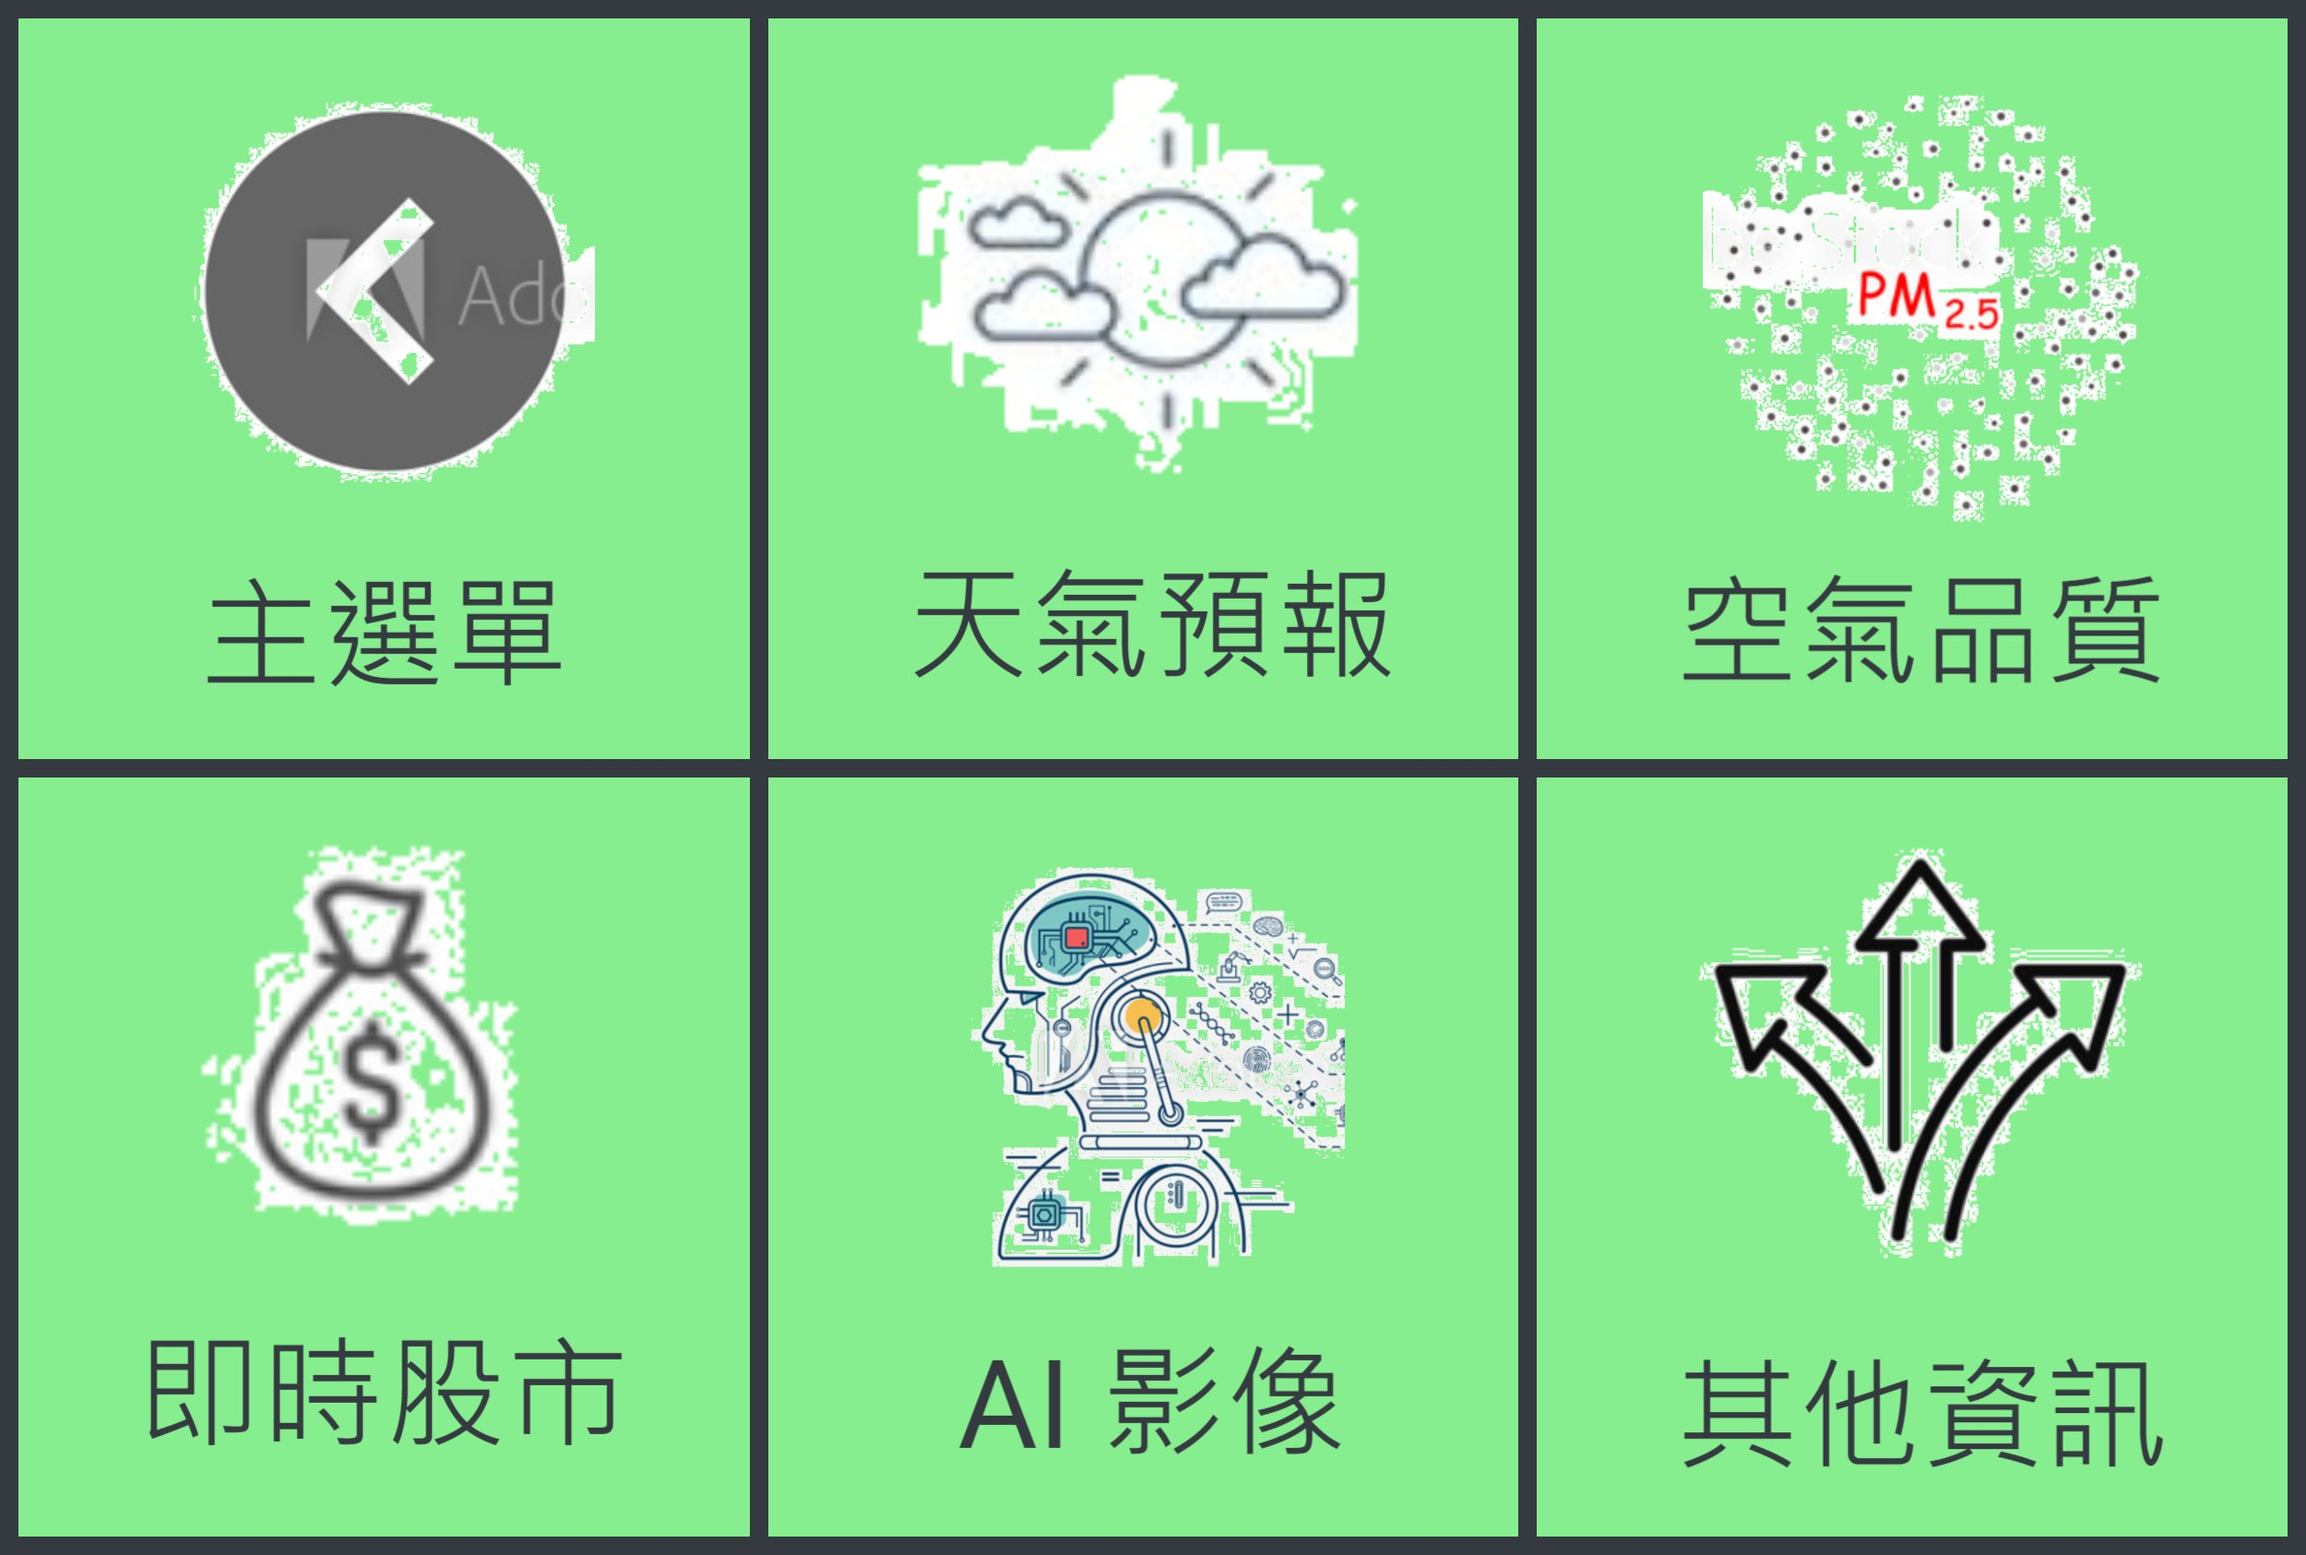
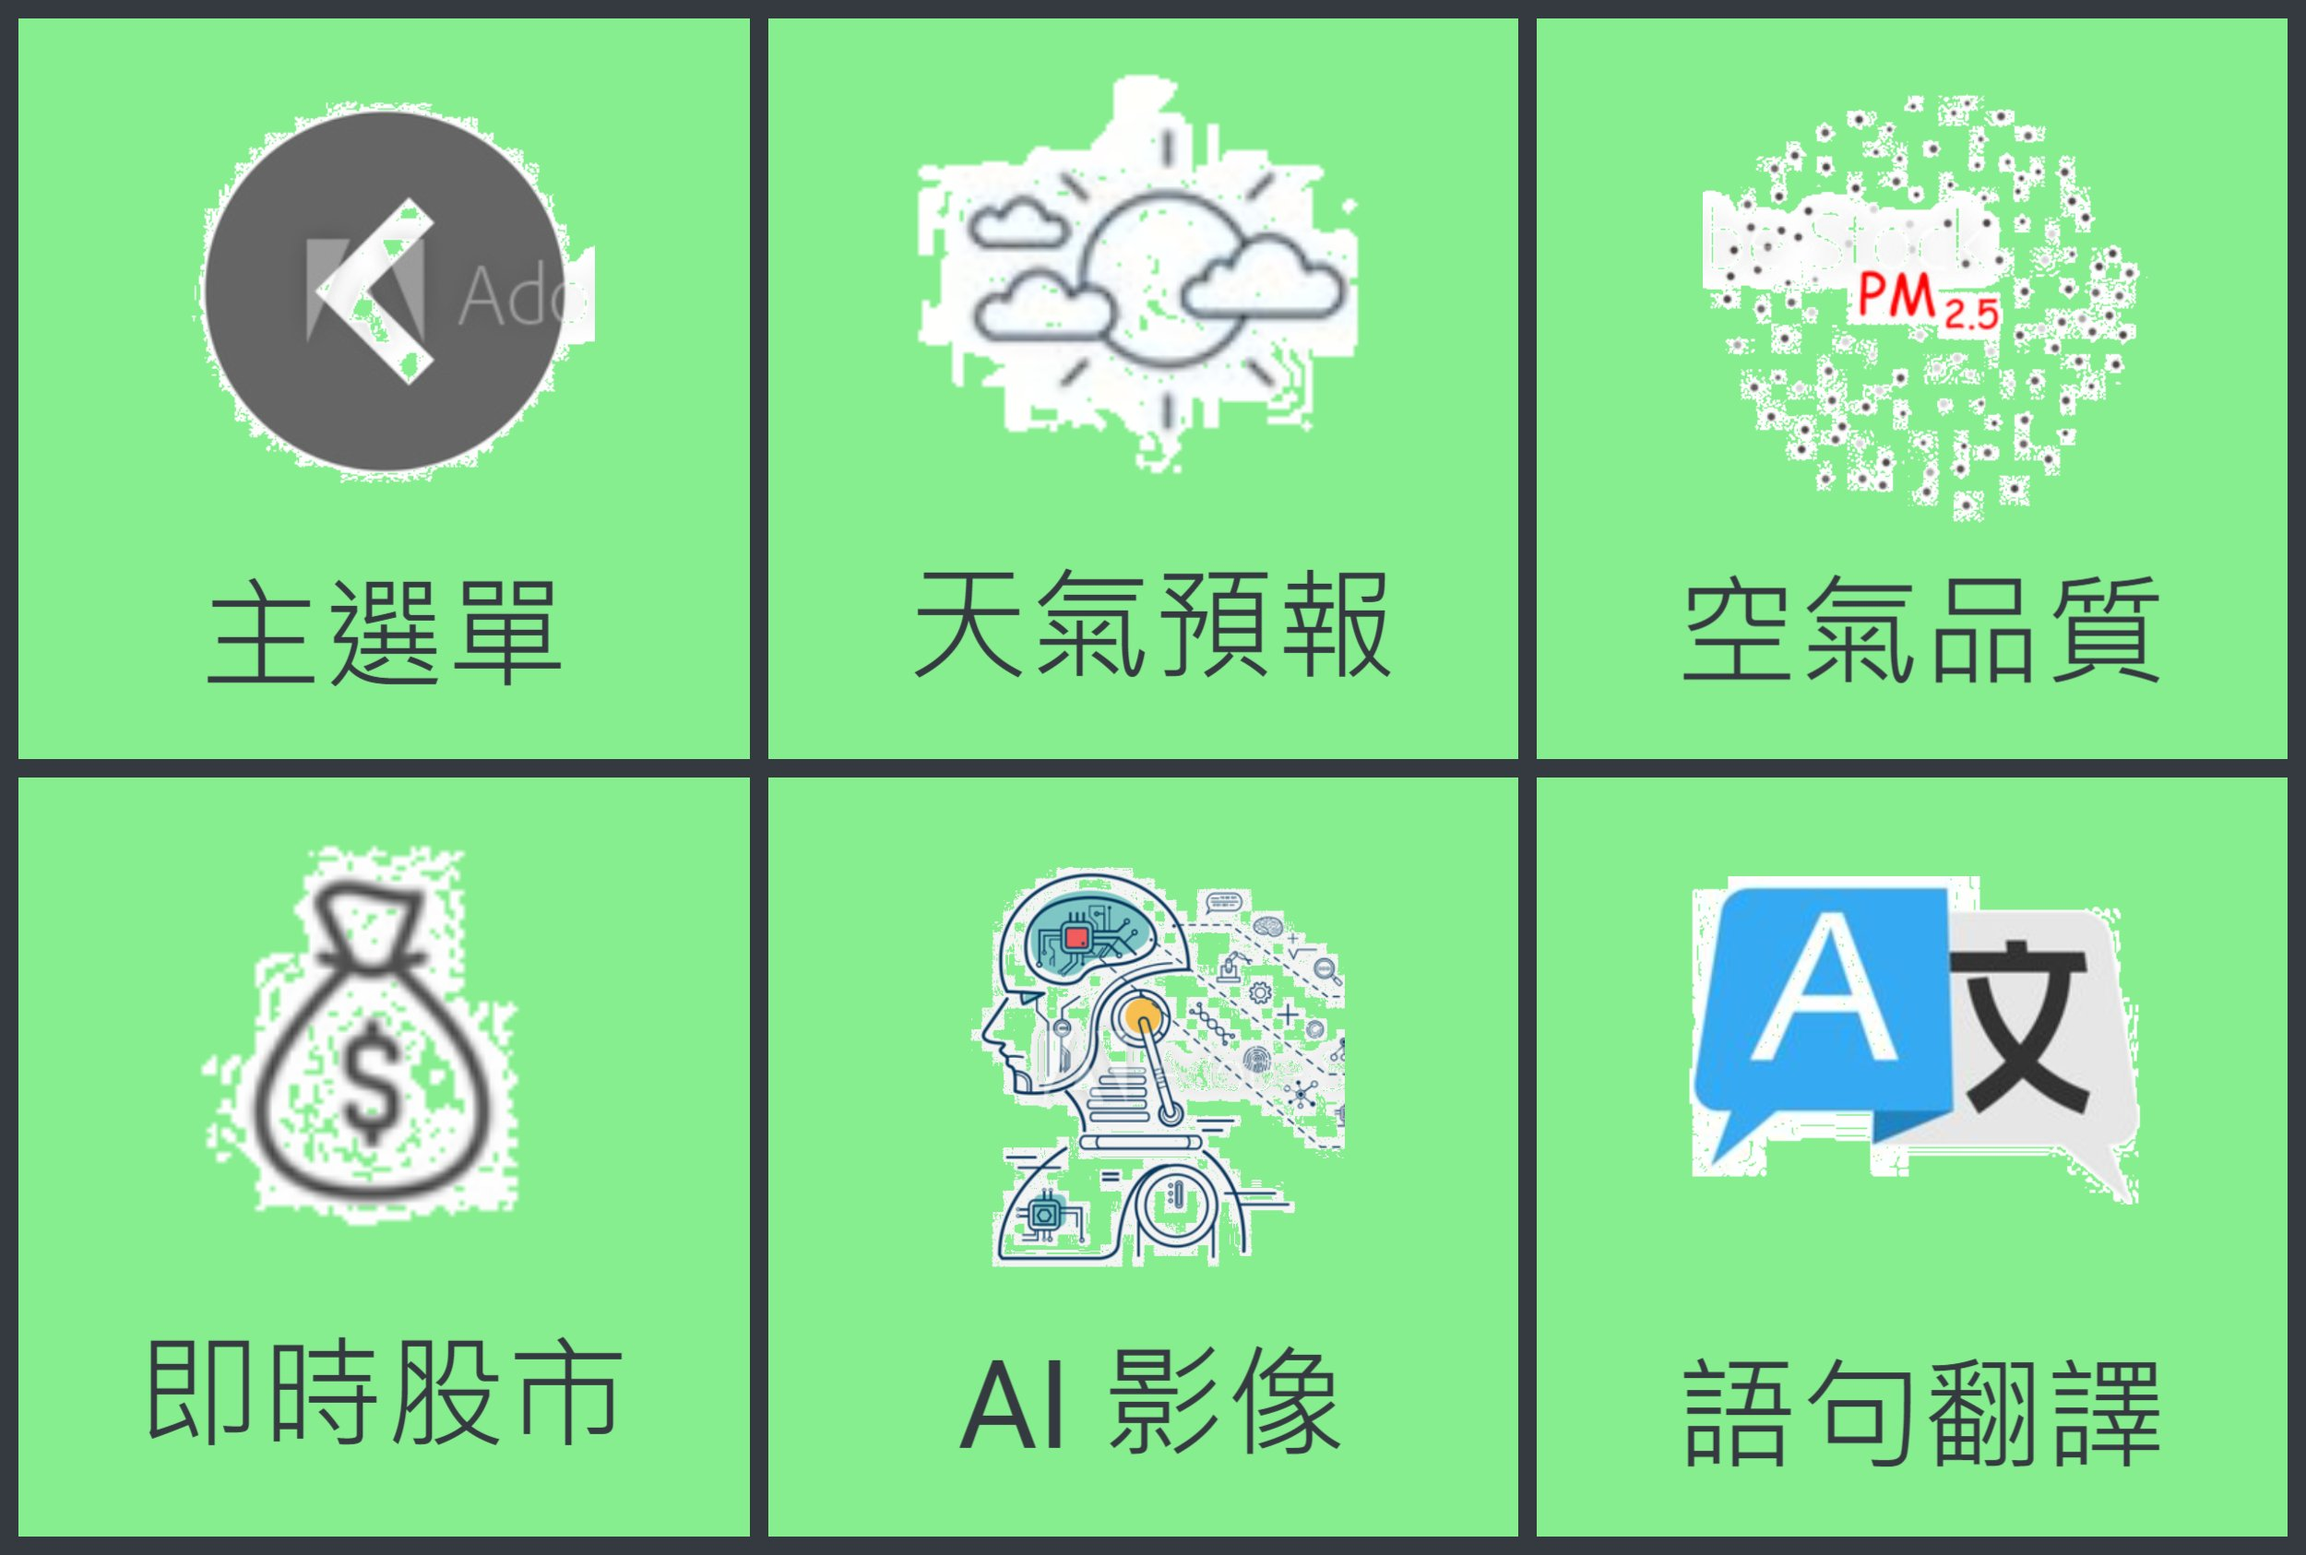
init.

Changed region(s): [[0.7176, 0.5243, 0.936, 0.8019], [0.7176, 0.8636, 0.936, 0.9561]]

diff --git a/del_menus.py b/del_menus.py
@@ -6,7 +6,6 @@ from linebot import (
 )
[1 lines of base64/hex data omitted]
 line_bot_api = LineBotApi('{my_access_token}'.format(my_access_token=access_token))
-rich_menus_id = 'richmenu-3628f1f2d3d24e98c2c5c3bd78d0d6d1'
+rich_menus_id = 'richmenu-50293657a1ad0167e1d6070bd2afebaa'
 
-with open("rich_menus/information.jpg", 'rb') as f:
-  line_bot_api.set_rich_menu_image("{my_richmenu_id}".format(my_richmenu_id=rich_menus_id ), "image/jpeg", f)
+line_bot_api.delete_rich_menu('{my_rich_menus_id}'.format(my_rich_menus_id=rich_menus_id))

diff --git a/add_menus_large_small.py b/add_menus_large_small.py
@@ -35,7 +35,7 @@ body = {
         },
         {
           "bounds": {"x": 535, "y": 271, "width": 267, "height": 270},
-          "action": {"type": "message", "text": "other"}
+          "action": {"type": "uri", "uri": "https://liff.line.me/1654118646-4ANQr5B3/translate"}
         }        
     ]
   }
